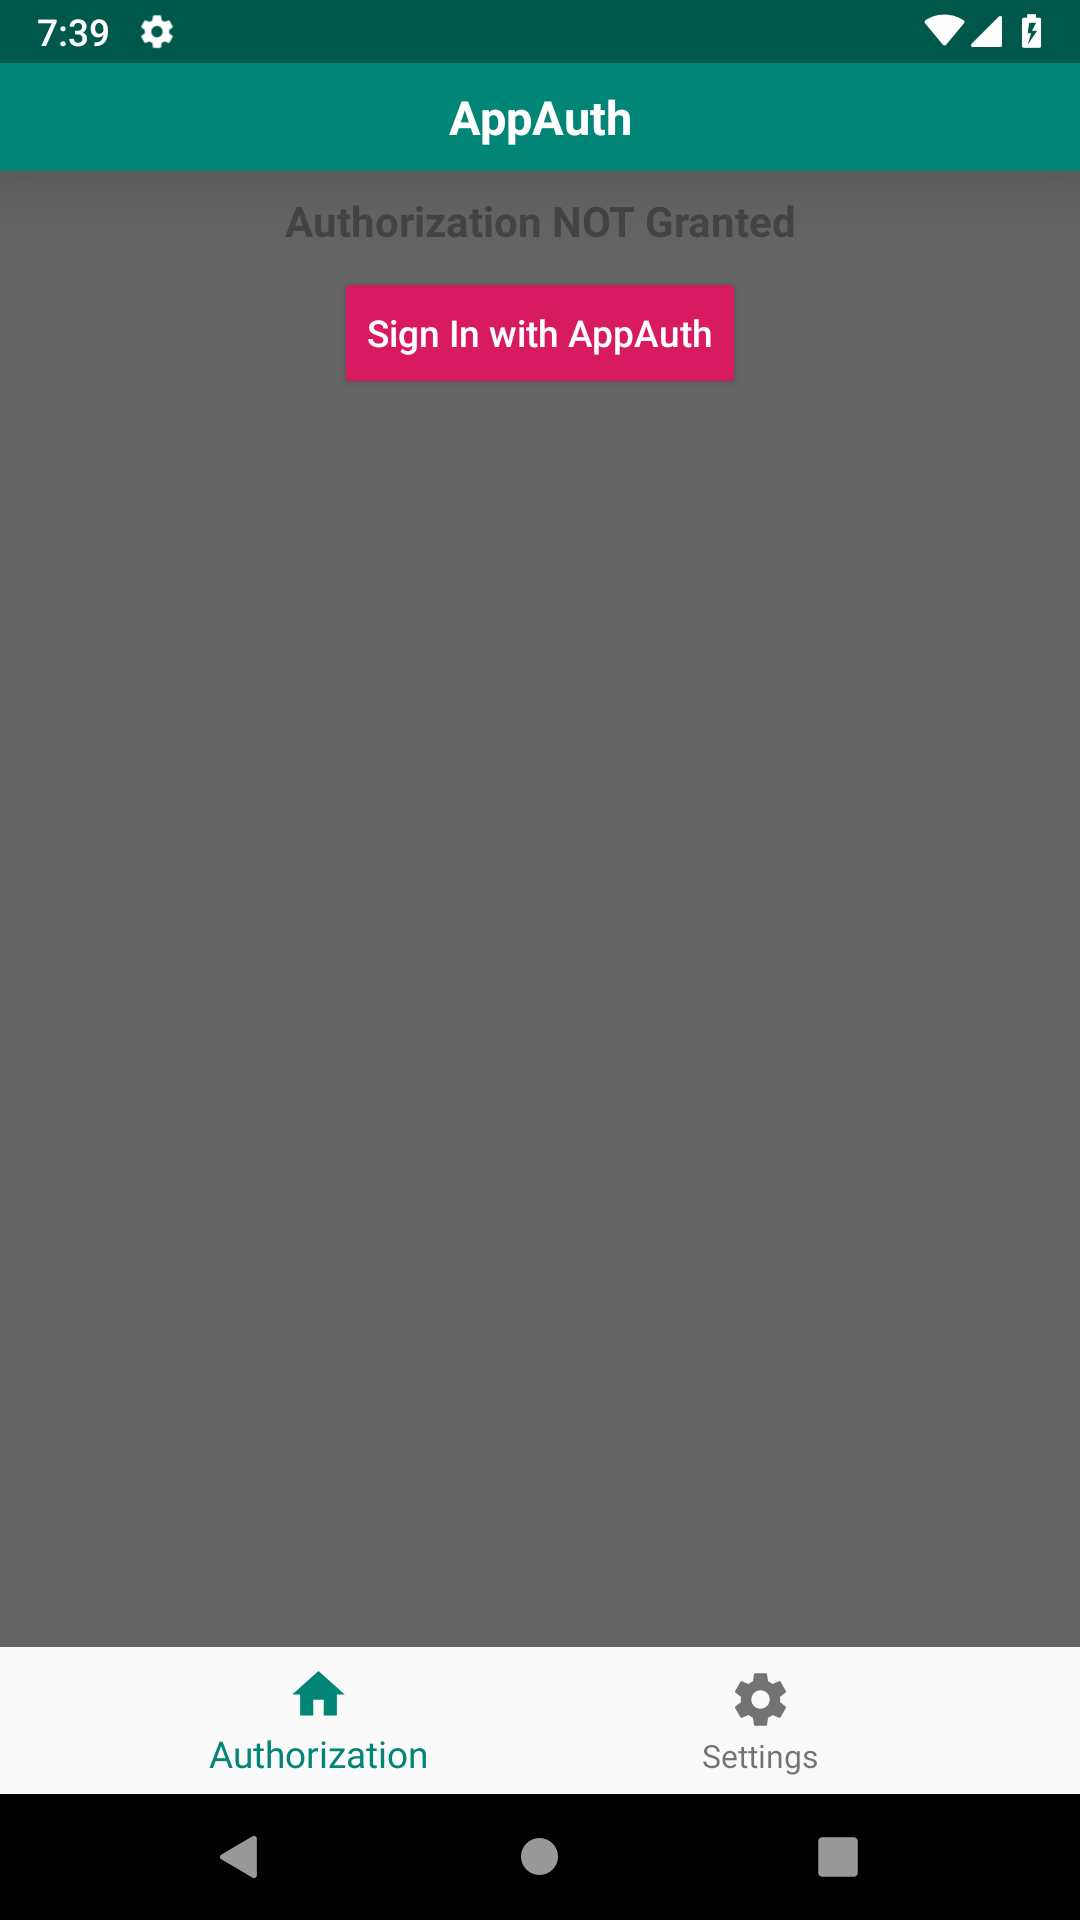
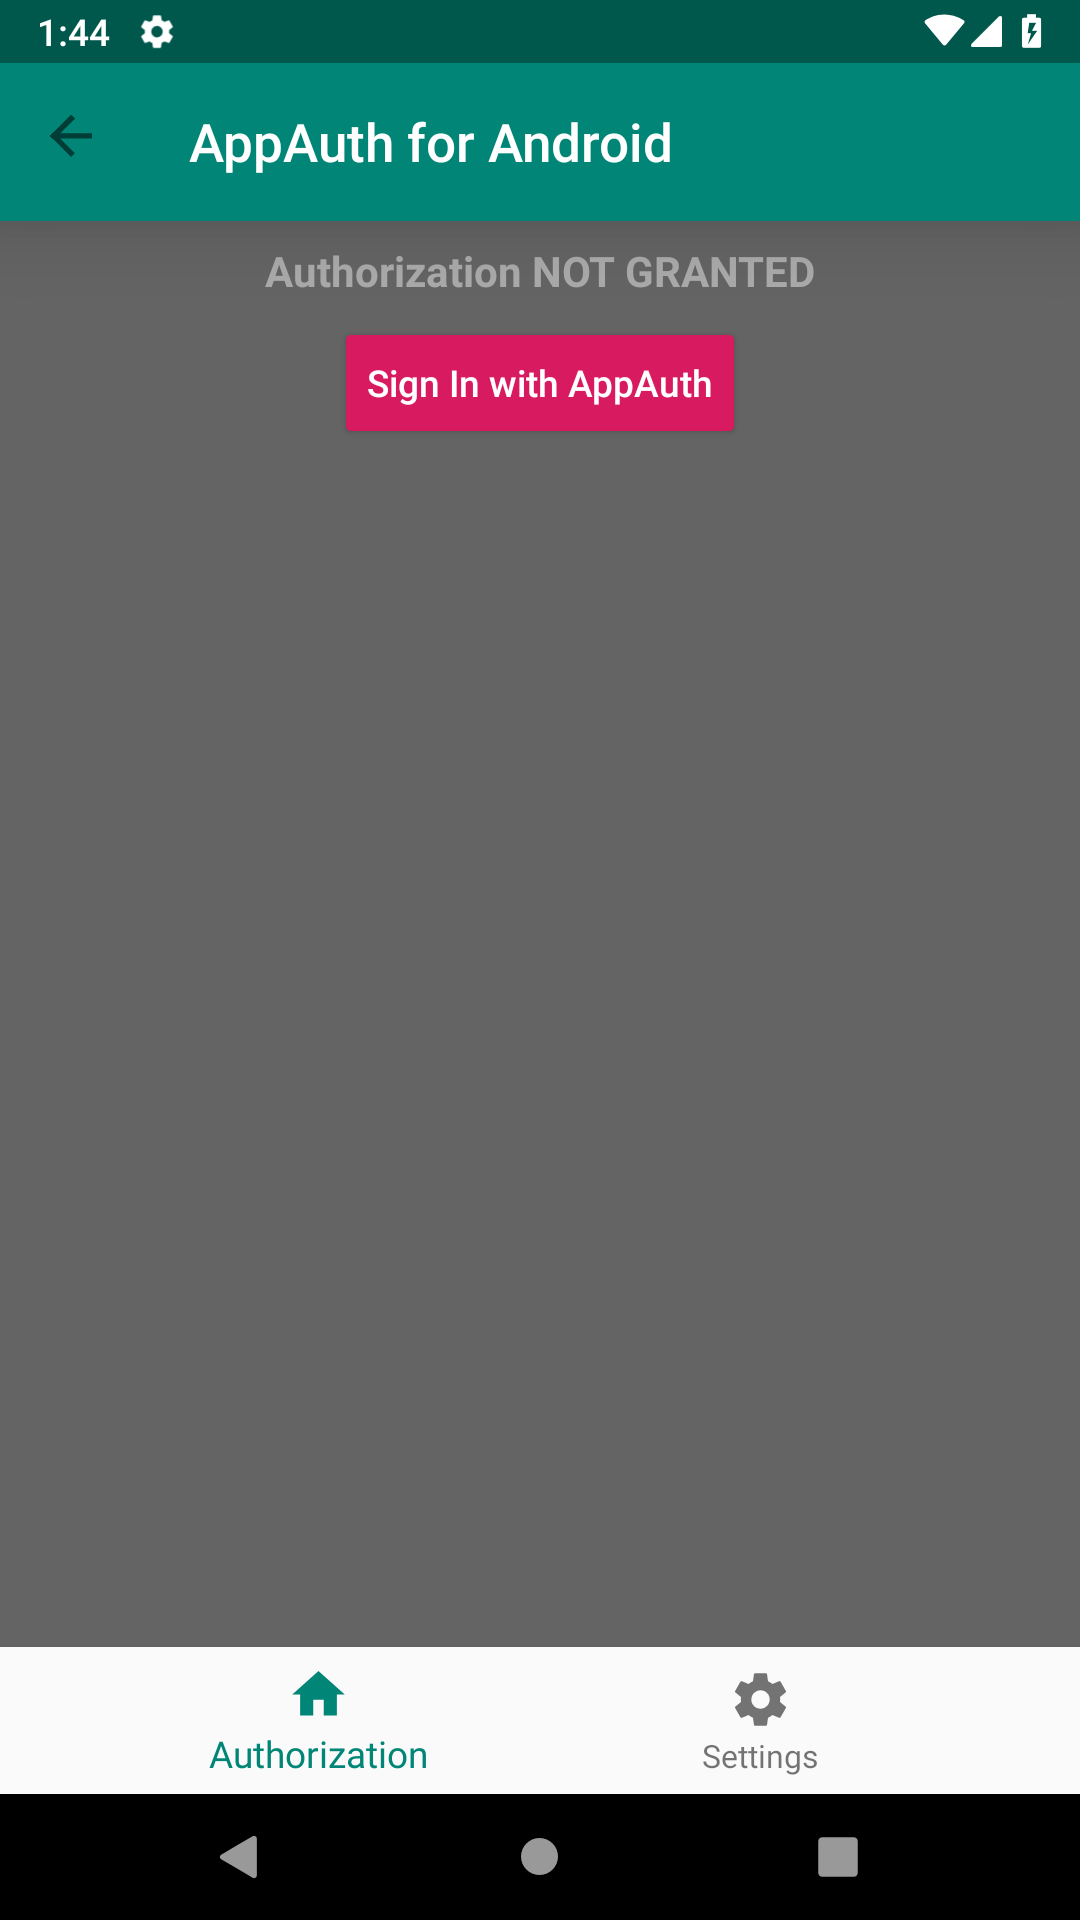
Release 1.1.0
- Refactor UI with AndroidX Navigation

Changed region(s): [[0.0, 0.0312, 1.0, 0.25], [0.0306, 0.0, 0.0917, 0.0312]]

diff --git a/README.md b/README.md
@@ -8,11 +8,12 @@ This app is a demonstration of using [AppAuth for Android](https://github.com/op
 and authentication.
 
 <div align:left;display:inline;>
+<img width="135" height="240" src="images/home.png"/>
 <img width="135" height="240" src="images/appauth_sign_out.png"/>
 <img width="135" height="240" src="images/appauth_sign_in.png"/>
 <img width="135" height="240" src="images/gsi_sign_out.png"/>
 <img width="135" height="240" src="images/gsi_sign_in.png"/>
-<img width="135" height="240" src="images/settings_appauth.png"/>
+<img width="135" height="240" src="images/settings.png"/>
 </div>
 
 ### Architecture
